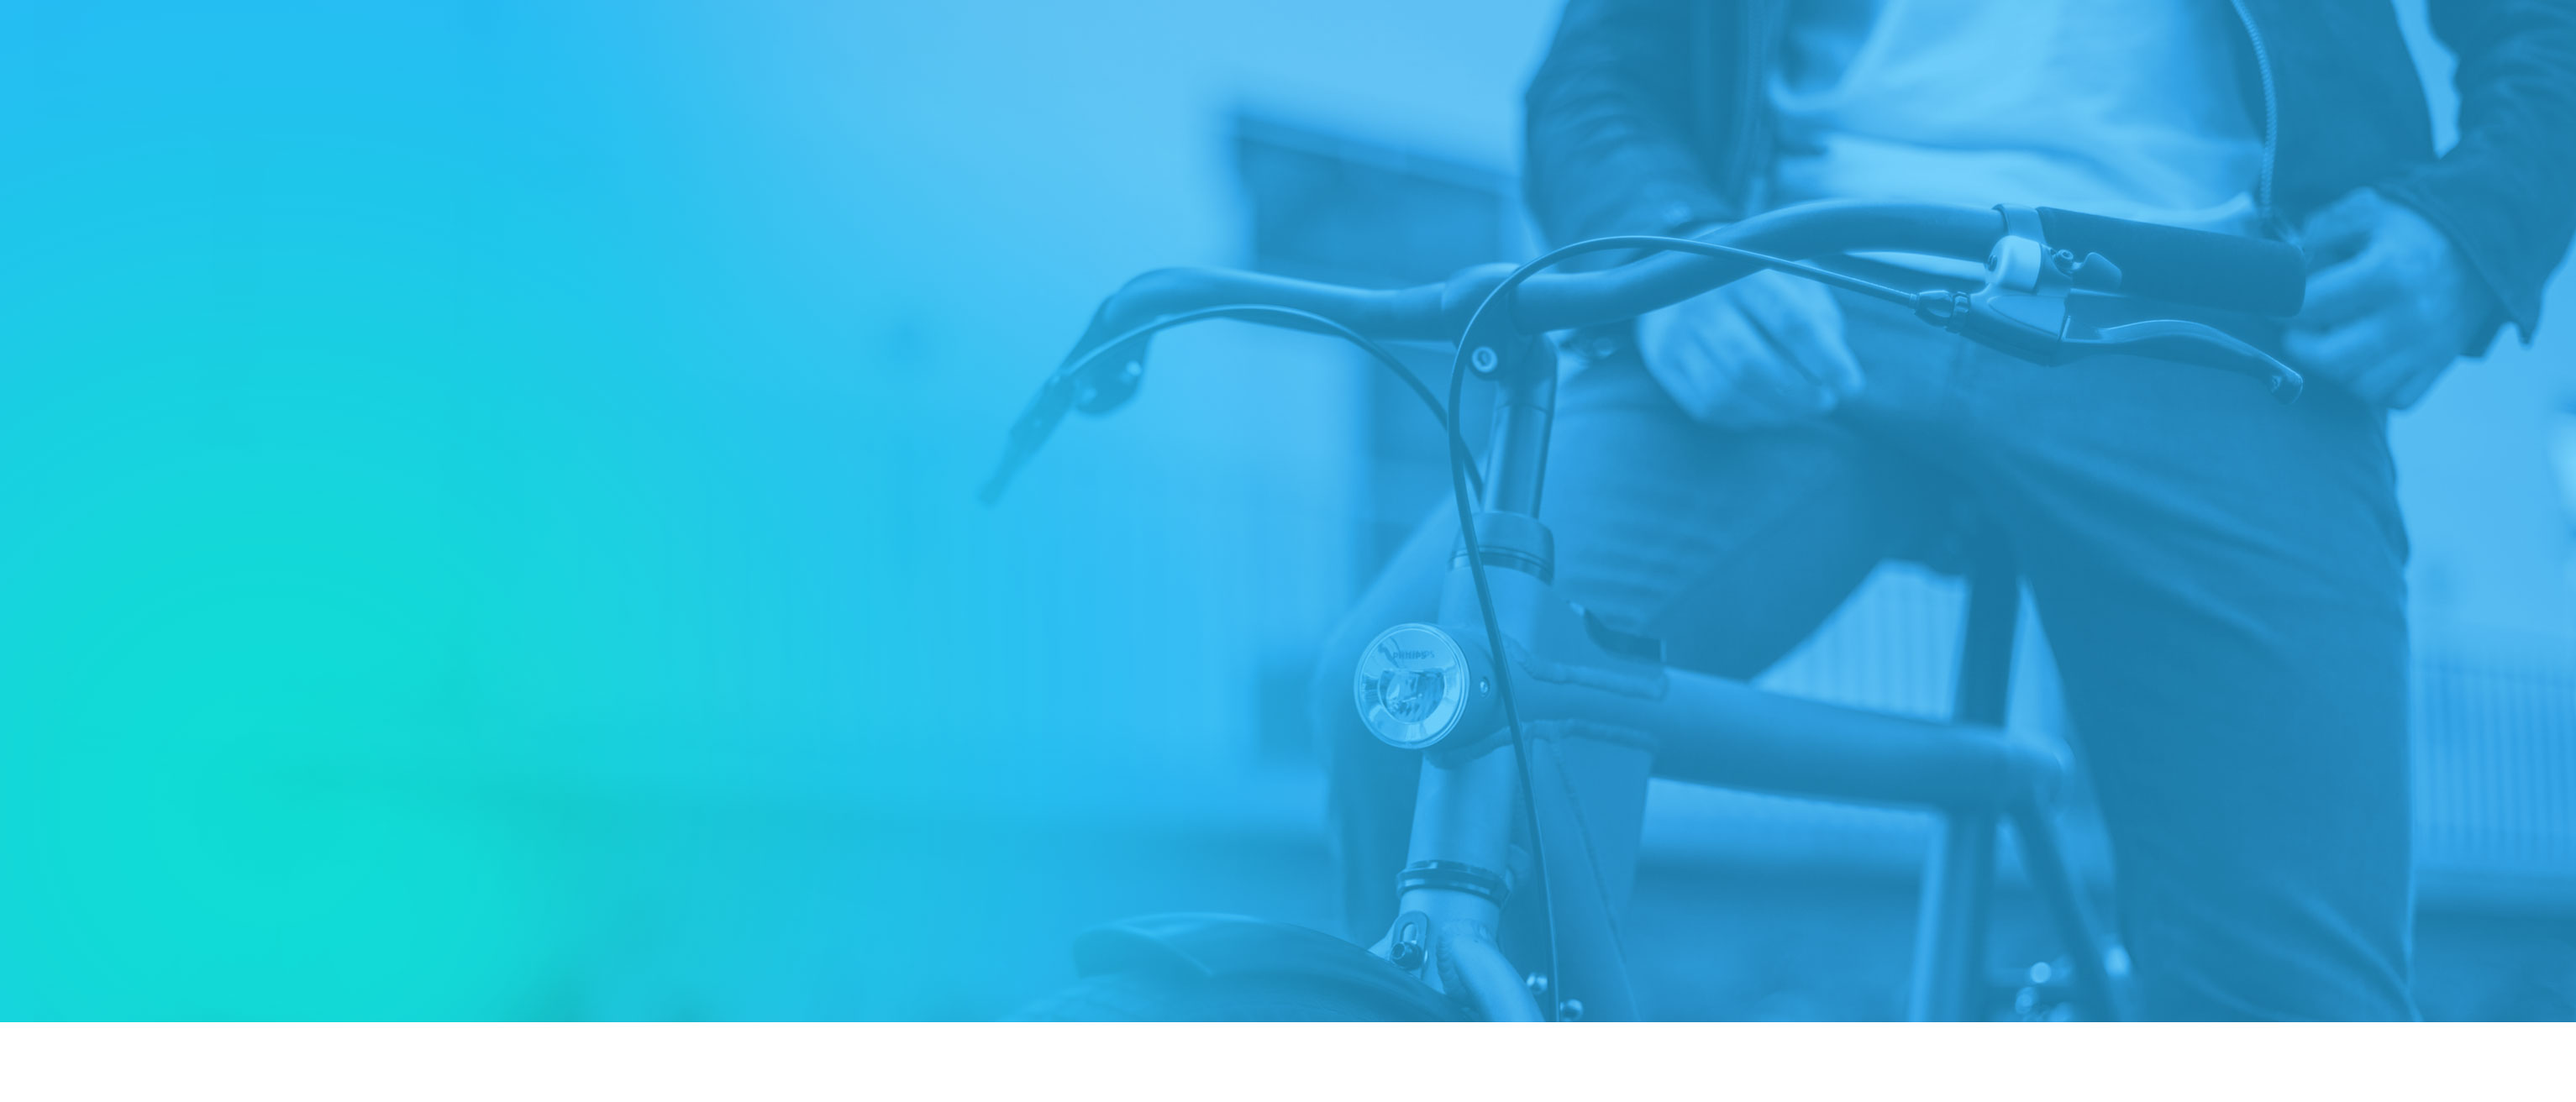
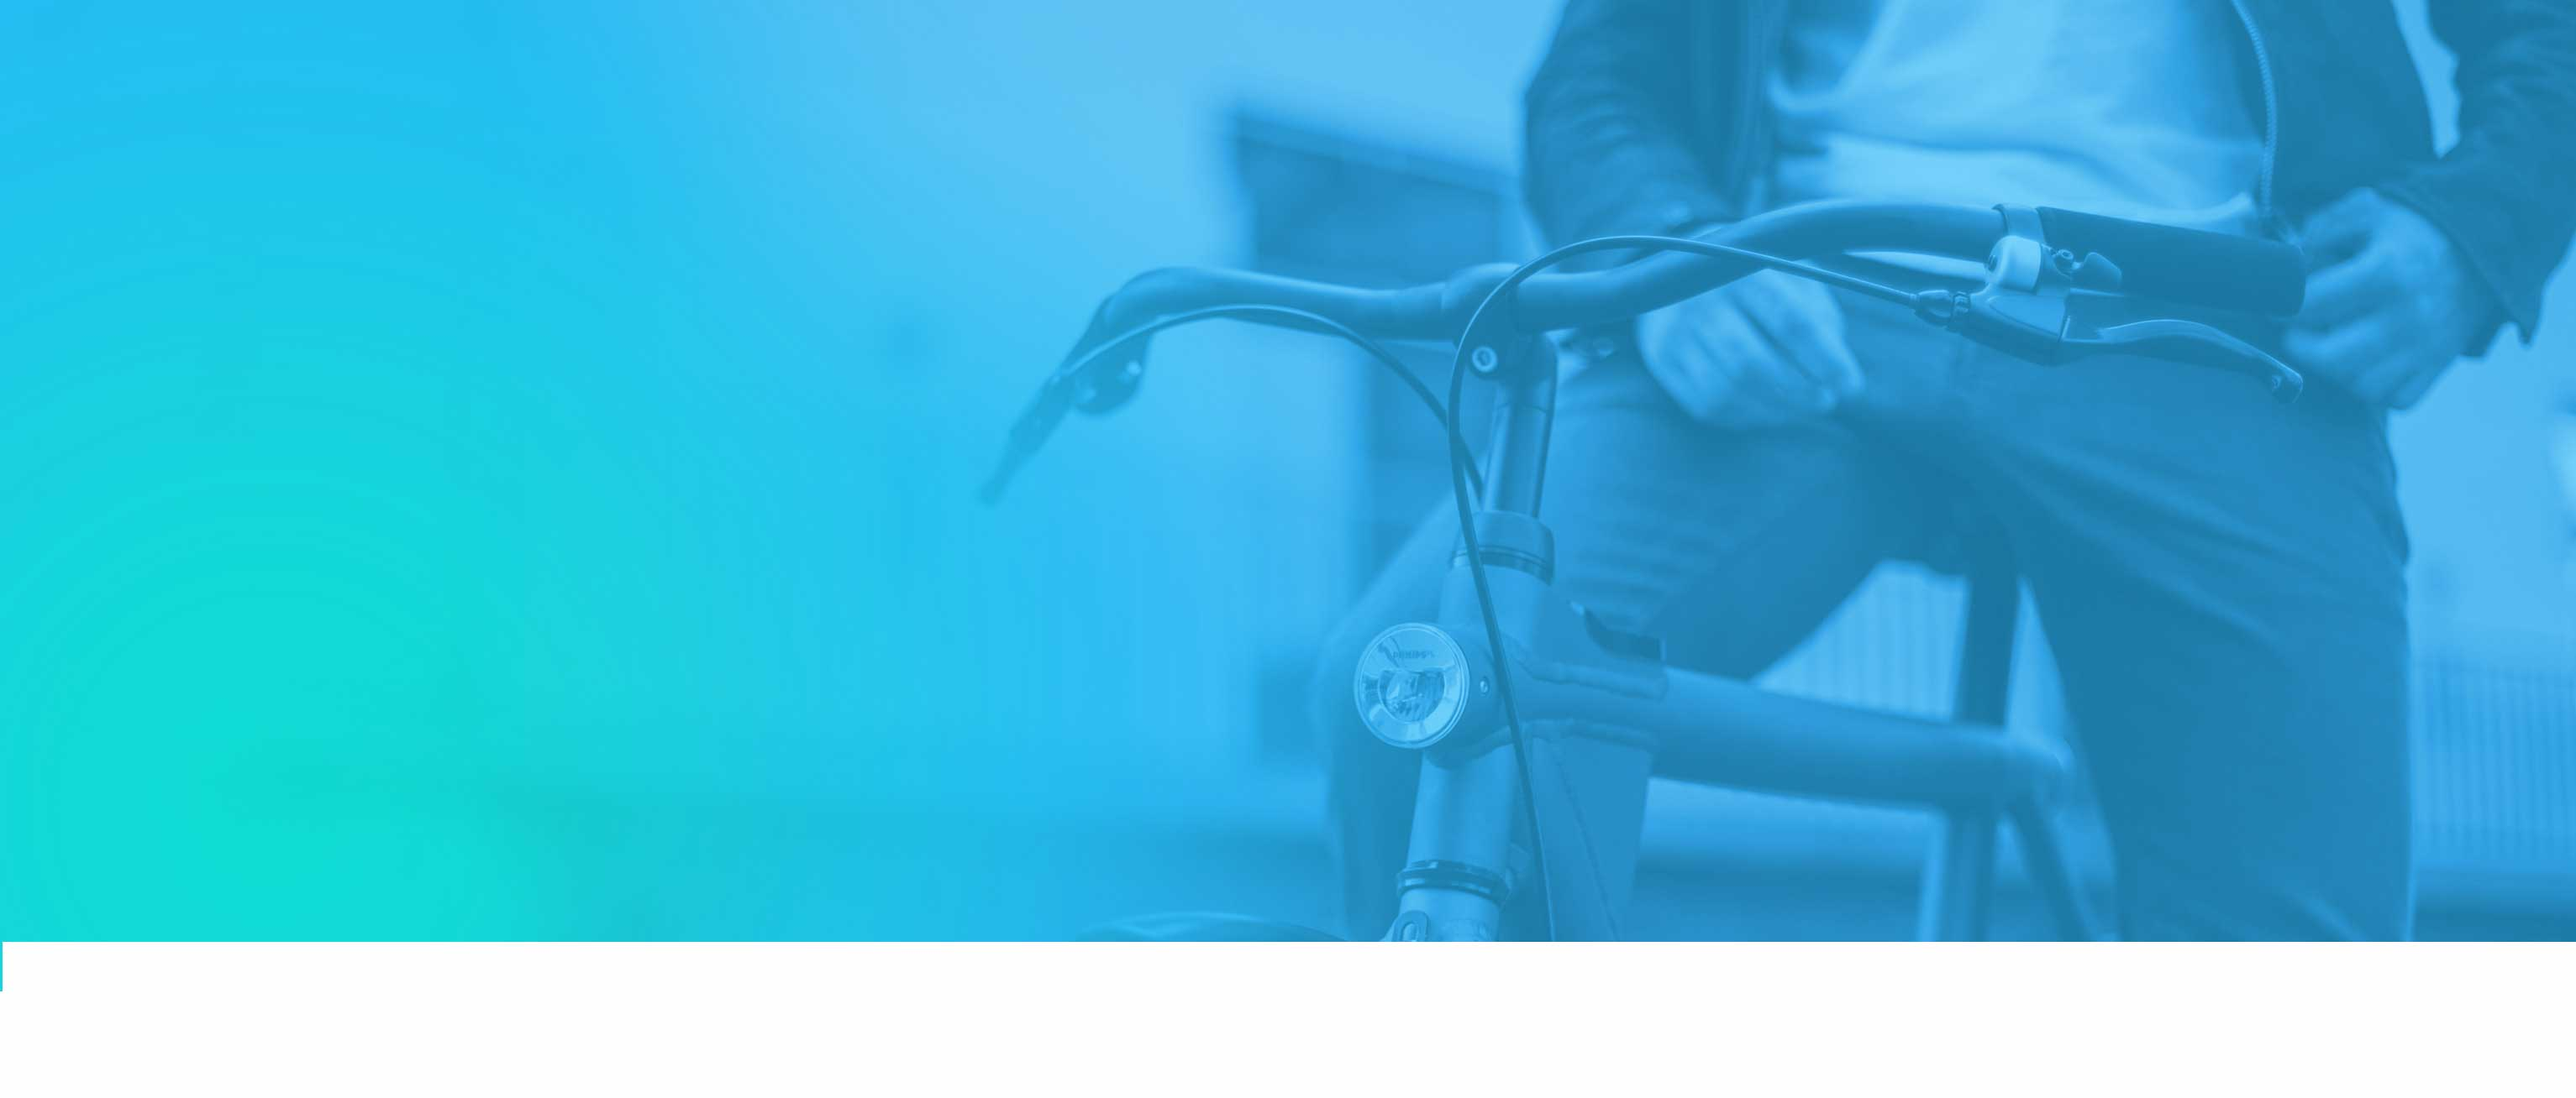
x

Changed region(s): [[0.0, 0.8563, 1.0, 0.948]]

diff --git a/assets/styles/workwus.css b/assets/styles/workwus.css
@@ -44,7 +44,7 @@
 
 .form_box {
     width: 440px;
-    height: 81%;
+    height: 75%;
     float: right;
     top: 15%;
     right: 4%;
@@ -60,7 +60,6 @@
 	height:100%;
 	padding: 0px 11% 0px 10%;
     overflow-y: scroll;
-
 }
 
 .form-wrapper {overflow: hidden;}
@@ -78,7 +77,7 @@
 
 .from-header h2 {
     font-family: nunito-regular;
-    font-size: 27px;
+    font-size: 32px;
     line-height: 45px;
     vertical-align: top;
     margin-bottom: 22px !important;
@@ -90,11 +89,11 @@
 
 .from-header h2 img {
     display: inline-block;
-    height: 37px;
+    height: 49px;
     position: relative;
-    margin-left: 8px;
-    margin-right: 7px;
-    top: -7px;
+    margin-left: 11px;
+    margin-right: 10px;
+    top: -10px;
 }
 
 .form-group {
@@ -225,9 +224,9 @@ h3, .page-title .subheading {font-size: 30px;}
 
 .grleftside {
   position: absolute;
-  height: 130%;
+  height: 140%;
   left: 0;
-  bottom:0 ;
+  bottom:5vh ;
 }
 
 .h1line {
@@ -268,11 +267,31 @@ h3, .page-title .subheading {font-size: 30px;}
 	
 	.grleftside {
 		position: absolute;
-		height: 110%;
+		height: 135%;
 		left: 0;
-		bottom:0 ;
+		bottom:5vh ;
 	}
 	
+	.from-header h2 {
+		font-family: nunito-regular;
+		font-size: 28px;
+		line-height: 45px;
+		vertical-align: top;
+		margin-bottom: 22px !important;
+		color: #fff;
+		text-transform: none;
+		letter-spacing: 1px;
+		margin-top: 45px !important;
+	}
+
+	.from-header h2 img {
+		display: inline-block;
+		height: 45px;
+		position: relative;
+		margin-left: 12px;
+		margin-right: 11px;
+		top: -10px;
+	}
 	.agency2-hero .hero-content-wrapper .hero-content .hero-lead {
 
 	}
@@ -298,6 +317,26 @@ h3, .page-title .subheading {font-size: 30px;}
 	.from-header h2 {
 		font-size: 30px;
 	}
+	.from-header h2 {
+		font-family: nunito-regular;
+		font-size: 24px;
+		line-height: 45px;
+		vertical-align: top;
+		margin-bottom: 22px !important;
+		color: #fff;
+		text-transform: none;
+		letter-spacing: 1px;
+		margin-top: 45px !important;
+	}
+
+	.from-header h2 img {
+		display: inline-block;
+		height: 40px;
+		position: relative;
+		margin-left: 12px;
+		margin-right: 11px;
+		top: -9px;
+	}
 }
 
 @media screen and (max-width: 1000px) {
@@ -316,7 +355,8 @@ h3, .page-title .subheading {font-size: 30px;}
 		position: absolute;
 		height: 90%;
 		left: 0;
-		bottom:0 ;
+		bottom:8vh ;
 	}
 
 }
+

diff --git a/workwithus.html b/workwithus.html
@@ -90,7 +90,7 @@
           <canvas id="demo-canvas" class="demo-canvas"></canvas>
 
 		  <div id="home_anim_wus">
-			<img class="grleftside" src="assets/images/workwus/gfx_header.png" />
+			<img class="grleftside" src="assets/images/workwus/gfx_header_grad.png" /> 
 			<!-- <img class="rightcloud" src="assets/images/workwus/cloud_behind_form.png" /> -->
 		  </div>
 
@@ -214,32 +214,32 @@
 							}
 						</script>
 						<div class="form-group">
-							<label>Select your type of transport: <br><span class="transport-alt"><i>( Multiply selection available )</i></span></label>
+							<label class="transportlabel">Select your type of transport: <br><span class="transport-alt">( Multiple selection available )</span></label>
 
 							<div class="form-group-select">
 							<div class="checkboxdiv">
-								<img id="imgwalk" src="" style="width:43px;" alt=""
+								<img id="imgwalk" src="" style="width:50px;" alt=""
 									onclick="ClickCB('walk');">
 								<input type="checkbox" id="cbwalk" name="transport" value="walk" class="c_checkbox1">
 	<!--<br>					<label for="c1"><span></span></label> -->
 							</div>
 
 							<div class="checkboxdiv">
-								<img id="imgmoto" src="" style="width:43px;" alt="" 
+								<img id="imgmoto" src="" style="width:50px;" alt="" 
 									onclick="ClickCB('moto');">
 								<input type="checkbox" id="cbmoto" name="transport" value="motorcycle" class="c_checkbox1">
 	<!--<br>					<label for="c2"><span></span></label> -->
 							</div>
 
 							<div class="checkboxdiv">
-								<img id="imgcar" src="" style="width:43px;" alt=""
+								<img id="imgcar" src="" style="width:50px;" alt=""
 									onclick="ClickCB('car');">
 								<input type="checkbox" id="cbcar" name="transport" value="car" class="c_checkbox1">
 	<!--<br>					<label for="c3"><span></span></label> -->
 							</div>
 
 							<div class="checkboxdiv">
-								<img id="imgvan" src="" style="width:43px;" alt="" 
+								<img id="imgvan" src="" style="width:50px;" alt="" 
 									onclick="ClickCB('van');">
 								<input type="checkbox" id="cbvan" name="transport" value="van" class="c_checkbox1">
 	<!--<br>					<label for="c4"><span></span></label> -->
